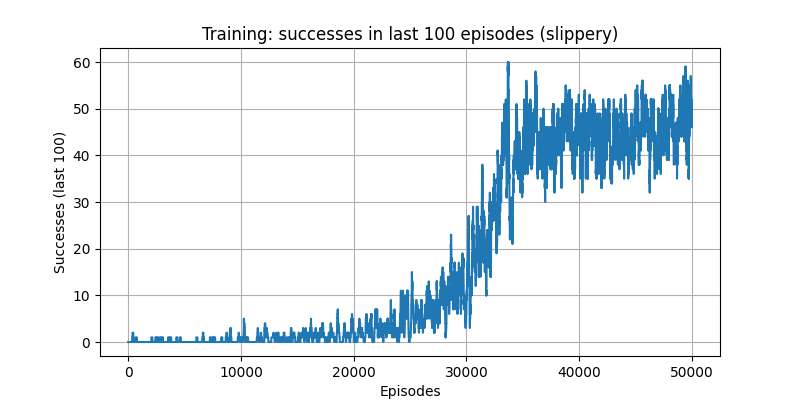
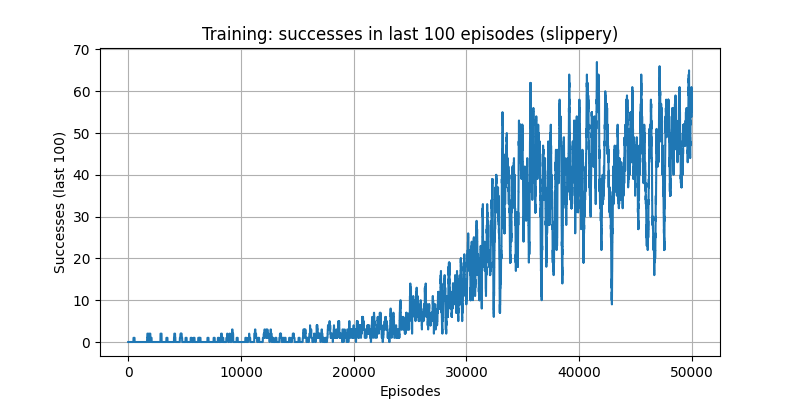
.

diff --git a/Q-Learning/config.py b/Q-Learning/config.py
@@ -8,7 +8,7 @@ AGENT_PARAMS = {
     "alpha_end": 0.1,
     "gamma": 0.9,
     "epsilon": 1.0,
-    "epsilon_min": 0.0,
+    "epsilon_min": 0.01,
     "epsilon_decay": 0.00003    # Linear Decay
     #"epsilon_decay": 0.99995   # Exponential Decay
 }
